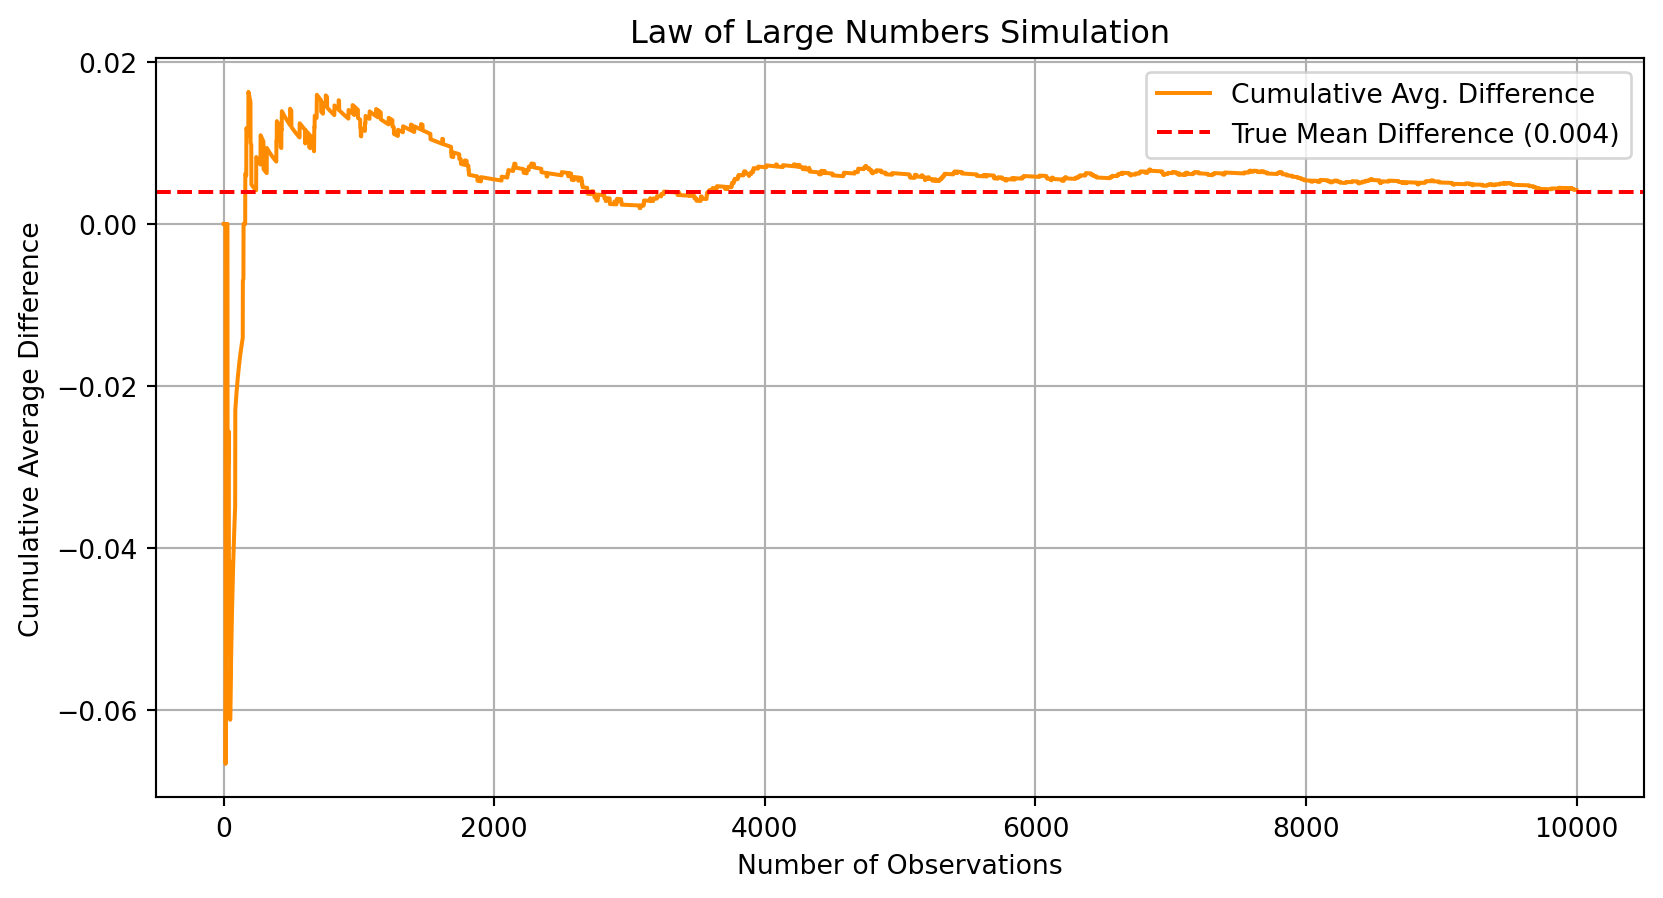
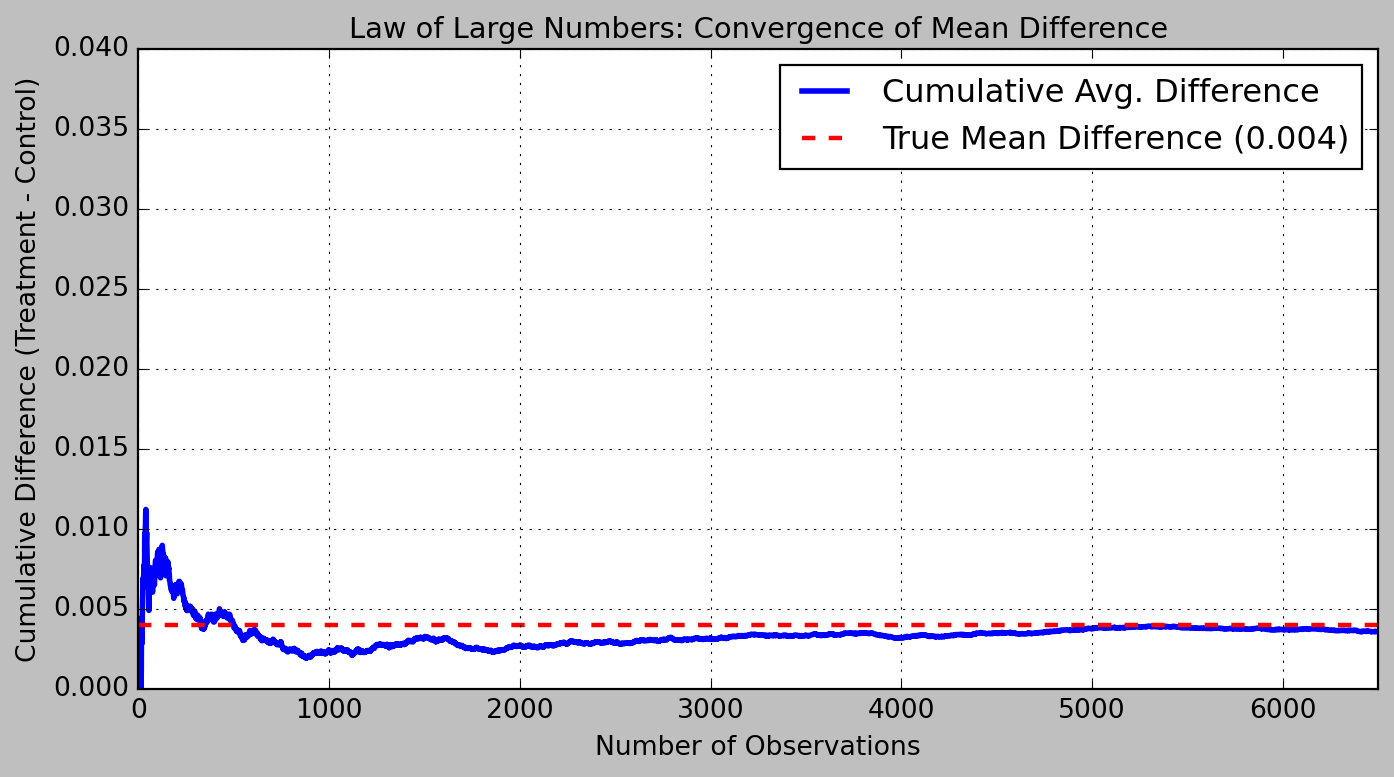
999999

diff --git a/docs/blog/project1/hw1_questions (4).html b/docs/blog/project1/hw1_questions (4).html
@@ -190,6 +190,9 @@ window.Quarto = {
   <li><a href="#data" id="toc-data" class="nav-link" data-scroll-target="#data">Data</a>
   <ul class="collapse">
   <li><a href="#description" id="toc-description" class="nav-link" data-scroll-target="#description">Description</a></li>
+  </ul></li>
+  <li><a href="#description-1" id="toc-description-1" class="nav-link" data-scroll-target="#description-1">Description</a>
+  <ul class="collapse">
   <li><a href="#balance-test" id="toc-balance-test" class="nav-link" data-scroll-target="#balance-test">Balance Test</a></li>
   <li><a href="#manual-t-test-results" id="toc-manual-t-test-results" class="nav-link" data-scroll-target="#manual-t-test-results">Manual T-Test Results</a></li>
   <li><a href="#linear-regression-results" id="toc-linear-regression-results" class="nav-link" data-scroll-target="#linear-regression-results">Linear Regression Results</a></li>
@@ -218,6 +221,8 @@ window.Quarto = {
   <li><a href="#law-of-large-numbers" id="toc-law-of-large-numbers" class="nav-link" data-scroll-target="#law-of-large-numbers">Law of Large Numbers</a></li>
   <li><a href="#law-of-large-numbers-1" id="toc-law-of-large-numbers-1" class="nav-link" data-scroll-target="#law-of-large-numbers-1">Law of Large Numbers</a></li>
   <li><a href="#law-of-large-numbers-2" id="toc-law-of-large-numbers-2" class="nav-link" data-scroll-target="#law-of-large-numbers-2">Law of Large Numbers</a></li>
+  <li><a href="#law-of-large-numbers-3" id="toc-law-of-large-numbers-3" class="nav-link" data-scroll-target="#law-of-large-numbers-3">Law of Large Numbers</a></li>
+  <li><a href="#law-of-large-numbers-convergence-of-mean-difference" id="toc-law-of-large-numbers-convergence-of-mean-difference" class="nav-link" data-scroll-target="#law-of-large-numbers-convergence-of-mean-difference">Law of Large Numbers: Convergence of Mean Difference</a></li>
   <li><a href="#interpretation-3" id="toc-interpretation-3" class="nav-link" data-scroll-target="#interpretation-3">Interpretation</a></li>
   <li><a href="#central-limit-theorem" id="toc-central-limit-theorem" class="nav-link" data-scroll-target="#central-limit-theorem">Central Limit Theorem</a></li>
   <li><a href="#interpretation-4" id="toc-interpretation-4" class="nav-link" data-scroll-target="#interpretation-4">Interpretation</a></li>
@@ -272,6 +277,16 @@ window.Quarto = {
 <section id="description" class="level3">
 <h3 class="anchored" data-anchor-id="description">Description</h3>
 <p>We load and explore the dataset from Karlan and List (2007).</p>
+</section>
+</section>
+<section id="description-1" class="level2">
+<h2 class="anchored" data-anchor-id="description-1">Description</h2>
+<p>The dataset includes 50,083 observations, each representing a past donor who received a fundraising letter as part of a large-scale randomized field experiment. The dataset captures a wide range of information, including treatment assignments, donation outcomes, prior giving behavior, and demographic context.</p>
+<p>There are 51 variables in total, which can be broadly grouped into the following categories: - <strong>Treatment indicators</strong>: such as <code>treatment</code>, <code>ratio2</code>, <code>ratio3</code>, <code>size25</code>, <code>size50</code>, <code>size100</code>, and <code>askd1</code>, which reflect match ratios, thresholds, and suggested donation amounts. - <strong>Outcome variables</strong>: including <code>gave</code> (binary indicator for donation) and <code>amount</code> (dollar amount donated). - <strong>Historical giving behavior</strong>: such as <code>hpa</code> (highest previous amount), <code>ltmedmra</code> (indicator for low prior donors), and <code>years</code> since the first donation. - <strong>Demographic and contextual features</strong>: such as <code>female</code>, <code>couple</code>, <code>median_hhincome</code>, <code>page18_39</code>, <code>pwhite</code>, and <code>pop_propurban</code>.</p>
+<p>Most variables are either complete or have minimal missingness, and the data types are a mix of binary indicators, integers, floats, and categorical values. This structure makes the dataset well-suited for regression, simulation, and visualization tasks.</p>
+<p>Summary statistics show that approximately <strong>66.7% of observations are in the treatment group</strong>, with <strong>33.3% in the control group</strong>, as expected from random assignment. The <code>gave</code> variable indicates that about <strong>2.06% of individuals donated</strong>, and the average donation (<code>amount</code>) across the full sample is <strong>$0.92</strong>, with some contributions reaching as high as <strong>$400</strong>. This reflects the typical skew in donation behavior: most individuals gave nothing, while a few gave large amounts.</p>
+<p>The match ratio flags (<code>ratio2</code>, <code>ratio3</code>) suggest roughly <strong>equal allocation</strong> across the 1:1, 2:1, and 3:1 groups. Likewise, the match threshold indicators (<code>size25</code>, <code>size50</code>, <code>size100</code>, <code>sizeno</code>) are each present in about <strong>16.7%</strong> of the sample. Suggested donation framing variables (<code>askd1</code>, <code>askd2</code>, <code>askd3</code>) also appear to be evenly distributed, reinforcing that the experimental design was properly randomized.</p>
+<p>The table below provides descriptions for key variables in the dataset.</p>
 <p>#:::: {.callout-note collapse=“true”}</p>
 <table class="caption-top table">
 <colgroup>
@@ -491,7 +506,7 @@ window.Quarto = {
 </tr>
 </tbody>
 </table>
-<div id="d708e9bc" class="cell" data-message="false" data-execution_count="2">
+<div id="bbea4afd" class="cell" data-message="false" data-execution_count="2">
 <div class="cell-output cell-output-display" data-execution_count="2">
 <div>
 
@@ -1045,7 +1060,7 @@ window.Quarto = {
 </div>
 </div>
 </div>
-<div id="d7a5498b" class="cell" data-message="false" data-execution_count="3">
+<div id="8a994459" class="cell" data-message="false" data-execution_count="3">
 <div class="cell-output cell-output-display" data-execution_count="3">
 <div>
 
@@ -1278,7 +1293,6 @@ window.Quarto = {
 </div>
 </div>
 <p>::::</p>
-</section>
 <section id="balance-test" class="level3">
 <h3 class="anchored" data-anchor-id="balance-test">Balance Test</h3>
 <p>As an ad hoc test of the randomization mechanism, I provide a series of tests that compare aspects of the treatment and control groups to assess whether they are statistically significantly different from one another.</p>
@@ -1337,7 +1351,7 @@ t = \frac{\bar{X}_{\text{treatment}} - \bar{X}_{\text{control}}}{\sqrt{\frac{s^2
 <section id="charitable-contribution-made-1" class="level3">
 <h3 class="anchored" data-anchor-id="charitable-contribution-made-1">Charitable Contribution Made</h3>
 <p>We examine whether the treatment group had a higher donation rate compared to the control group.</p>
-<div id="4e07fb9f" class="cell" data-message="false" data-execution_count="4">
+<div id="461ea9a4" class="cell" data-message="false" data-execution_count="4">
 <div class="cell-output cell-output-display">
 <div>
 <figure class="figure">
@@ -1351,7 +1365,7 @@ t = \frac{\bar{X}_{\text{treatment}} - \bar{X}_{\text{control}}}{\sqrt{\frac{s^2
 <section id="t-test-for-donation-rates" class="level4">
 <h4 class="anchored" data-anchor-id="t-test-for-donation-rates">T-Test for Donation Rates</h4>
 <p>This code performs an independent samples t-test to determine whether the mean donation rate (<code>gave</code>) differs significantly between the treatment and control groups. Since <code>gave</code> is a binary outcome indicating whether a donation was made, the test compares the proportion of donors across the two groups to assess the effect of receiving a matching donation offer.</p>
-<div id="6a543e8e" class="cell" data-execution_count="5">
+<div id="68eb99a3" class="cell" data-execution_count="5">
 <div class="sourceCode cell-code" id="cb1"><pre class="sourceCode python code-with-copy"><code class="sourceCode python"><span id="cb1-1"><a href="#cb1-1" aria-hidden="true" tabindex="-1"></a><span class="co"># T-test on binary outcome (gave)</span></span>
 <span id="cb1-2"><a href="#cb1-2" aria-hidden="true" tabindex="-1"></a>treat <span class="op">=</span> data[data[<span class="st">'treatment'</span>] <span class="op">==</span> <span class="dv">1</span>][<span class="st">'gave'</span>]</span>
 <span id="cb1-3"><a href="#cb1-3" aria-hidden="true" tabindex="-1"></a>control <span class="op">=</span> data[data[<span class="st">'treatment'</span>] <span class="op">==</span> <span class="dv">0</span>][<span class="st">'gave'</span>]</span>
@@ -1366,7 +1380,7 @@ T-statistic: 3.209, p-value: 0.001</code></pre>
 <p>The result of the t-test yields a t-statistic of 3.209 with a p-value of 0.001. This indicates a statistically significant difference in donation rates between the treatment and control groups at the 1% significance level. In other words, individuals who received a matching donation offer were significantly more likely to donate than those who did not, supporting the hypothesis that such offers increase giving behavior.</p>
 <p>To complement the t-test, we estimate a simple ordinary least squares (OLS) regression to evaluate the effect of the treatment assignment on the probability of giving. The binary outcome variable <code>gave</code> is regressed on the treatment indicator, which equals 1 for those who received a matching donation offer and 0 for the control group.</p>
 <p>This model can be interpreted as a comparison of group means, where the intercept represents the donation rate in the control group, and the treatment coefficient captures the average difference in donation rates between groups.</p>
-<div id="4c1625c9" class="cell" data-execution_count="6">
+<div id="a400bb45" class="cell" data-execution_count="6">
 <div class="sourceCode cell-code" id="cb3"><pre class="sourceCode python code-with-copy"><code class="sourceCode python"><span id="cb3-1"><a href="#cb3-1" aria-hidden="true" tabindex="-1"></a><span class="co"># Bivariate OLS regression: gave ~ treatment</span></span>
 <span id="cb3-2"><a href="#cb3-2" aria-hidden="true" tabindex="-1"></a>model <span class="op">=</span> smf.ols(<span class="st">"gave ~ treatment"</span>, data<span class="op">=</span>data).fit()</span>
 <span id="cb3-3"><a href="#cb3-3" aria-hidden="true" tabindex="-1"></a>model.summary()</span></code><button title="Copy to Clipboard" class="code-copy-button"><i class="bi"></i></button></pre></div>
@@ -1400,7 +1414,7 @@ T-statistic: 3.209, p-value: 0.001</code></pre>
 </tr>
 <tr class="odd">
 <td data-quarto-table-cell-role="th">Time:</td>
-<td>23:47:58</td>
+<td>23:50:37</td>
 <td data-quarto-table-cell-role="th">Log-Likelihood:</td>
 <td>26630.</td>
 </tr>
@@ -1498,7 +1512,7 @@ T-statistic: 3.209, p-value: 0.001</code></pre>
 </div>
 <p>The results confirm what we observed in the t-test. The coefficient on the <code>treatment</code> variable is <strong>0.0042</strong>, with a <strong>p-value of 0.002</strong>, indicating that the difference in donation rates between treatment and control is statistically significant at the 1% level.</p>
 <p>This suggests that receiving a matching donation offer increased the likelihood of giving by approximately <strong>0.42 percentage points</strong>. While this effect may seem small in absolute terms, it is consistent with the behavioral insights from Karlan and List (2007): even modest framing changes like mentioning a match can lead to meaningful increases in donor participation.</p>
-<div id="627b2f81" class="cell" data-execution_count="7">
+<div id="f9b8e9fb" class="cell" data-execution_count="7">
 <div class="sourceCode cell-code" id="cb4"><pre class="sourceCode python code-with-copy"><code class="sourceCode python"><span id="cb4-1"><a href="#cb4-1" aria-hidden="true" tabindex="-1"></a><span class="co"># Probit regression: gave ~ treatment</span></span>
 <span id="cb4-2"><a href="#cb4-2" aria-hidden="true" tabindex="-1"></a>probit_model <span class="op">=</span> smf.probit(<span class="st">"gave ~ treatment"</span>, data<span class="op">=</span>data).fit()</span>
 <span id="cb4-3"><a href="#cb4-3" aria-hidden="true" tabindex="-1"></a>probit_model.summary()</span></code><button title="Copy to Clipboard" class="code-copy-button"><i class="bi"></i></button></pre></div>
@@ -1537,7 +1551,7 @@ T-statistic: 3.209, p-value: 0.001</code></pre>
 </tr>
 <tr class="odd">
 <td data-quarto-table-cell-role="th">Time:</td>
-<td>23:47:58</td>
+<td>23:50:37</td>
 <td data-quarto-table-cell-role="th">Log-Likelihood:</td>
 <td>-5030.5</td>
 </tr>
@@ -1614,7 +1628,7 @@ T-statistic: 3.209, p-value: 0.001</code></pre>
 </section>
 <section id="t-tests-for-match-ratios" class="level3">
 <h3 class="anchored" data-anchor-id="t-tests-for-match-ratios">T-tests for Match Ratios</h3>
-<div id="d19b944c" class="cell" data-execution_count="8">
+<div id="0c4603fc" class="cell" data-execution_count="8">
 <div class="sourceCode cell-code" id="cb6"><pre class="sourceCode python code-with-copy"><code class="sourceCode python"><span id="cb6-1"><a href="#cb6-1" aria-hidden="true" tabindex="-1"></a><span class="co"># Filter only treatment group and each match ratio</span></span>
 <span id="cb6-2"><a href="#cb6-2" aria-hidden="true" tabindex="-1"></a>ratio1 <span class="op">=</span> data[(data[<span class="st">'treatment'</span>] <span class="op">==</span> <span class="dv">1</span>) <span class="op">&amp;</span> (data[<span class="st">'ratio'</span>] <span class="op">==</span> <span class="dv">1</span>)][<span class="st">'gave'</span>]</span>
 <span id="cb6-3"><a href="#cb6-3" aria-hidden="true" tabindex="-1"></a>ratio2 <span class="op">=</span> data[(data[<span class="st">'treatment'</span>] <span class="op">==</span> <span class="dv">1</span>) <span class="op">&amp;</span> (data[<span class="st">'ratio'</span>] <span class="op">==</span> <span class="dv">2</span>)][<span class="st">'gave'</span>]</span>
@@ -1645,7 +1659,7 @@ These t-tests compare donation rates for each match ratio within the treatment g
 </section>
 <section id="regression-on-match-ratio-categorical" class="level3">
 <h3 class="anchored" data-anchor-id="regression-on-match-ratio-categorical">Regression on Match Ratio (Categorical)</h3>
-<div id="26a9b3cf" class="cell" data-execution_count="9">
+<div id="f4e0f816" class="cell" data-execution_count="9">
 <div class="sourceCode cell-code" id="cb8"><pre class="sourceCode python code-with-copy"><code class="sourceCode python"><span id="cb8-1"><a href="#cb8-1" aria-hidden="true" tabindex="-1"></a><span class="co"># Filter for treatment group and valid match ratios</span></span>
 <span id="cb8-2"><a href="#cb8-2" aria-hidden="true" tabindex="-1"></a>match_data <span class="op">=</span> data[(data[<span class="st">'treatment'</span>] <span class="op">==</span> <span class="dv">1</span>) <span class="op">&amp;</span> (data[<span class="st">'ratio'</span>].isin([<span class="dv">1</span>, <span class="dv">2</span>, <span class="dv">3</span>]))].copy()</span>
 <span id="cb8-3"><a href="#cb8-3" aria-hidden="true" tabindex="-1"></a></span>
@@ -1685,7 +1699,7 @@ These t-tests compare donation rates for each match ratio within the treatment g
 </tr>
 <tr class="odd">
 <td data-quarto-table-cell-role="th">Time:</td>
-<td>23:47:58</td>
+<td>23:50:37</td>
 <td data-quarto-table-cell-role="th">Log-Likelihood:</td>
 <td>16688.</td>
 </tr>
@@ -1801,7 +1815,7 @@ The regression estimates donation rates for each match ratio using the 1:1 match
 <hr>
 <section id="response-rate-differences-from-raw-data-and-model" class="level4">
 <h4 class="anchored" data-anchor-id="response-rate-differences-from-raw-data-and-model">Response Rate Differences from Raw Data and Model</h4>
-<div id="05709702" class="cell" data-execution_count="10">
+<div id="9219de5a" class="cell" data-execution_count="10">
 <div class="sourceCode cell-code" id="cb9"><pre class="sourceCode python code-with-copy"><code class="sourceCode python"><span id="cb9-1"><a href="#cb9-1" aria-hidden="true" tabindex="-1"></a><span class="co"># Group-level mean donation rates</span></span>
 <span id="cb9-2"><a href="#cb9-2" aria-hidden="true" tabindex="-1"></a>ratio1 <span class="op">=</span> data[(data[<span class="st">'treatment'</span>] <span class="op">==</span> <span class="dv">1</span>) <span class="op">&amp;</span> (data[<span class="st">'ratio'</span>] <span class="op">==</span> <span class="dv">1</span>)][<span class="st">'gave'</span>]</span>
 <span id="cb9-3"><a href="#cb9-3" aria-hidden="true" tabindex="-1"></a>ratio2 <span class="op">=</span> data[(data[<span class="st">'treatment'</span>] <span class="op">==</span> <span class="dv">1</span>) <span class="op">&amp;</span> (data[<span class="st">'ratio'</span>] <span class="op">==</span> <span class="dv">2</span>)][<span class="st">'gave'</span>]</span>
@@ -1826,7 +1840,7 @@ Response Rate 3:1 = 0.0227
 3:1 - 2:1 = 0.0001</code></pre>
 </div>
 </div>
-<div id="a072e7ea" class="cell" data-execution_count="11">
+<div id="359ee5a6" class="cell" data-execution_count="11">
 <div class="sourceCode cell-code" id="cb11"><pre class="sourceCode python code-with-copy"><code class="sourceCode python"><span id="cb11-1"><a href="#cb11-1" aria-hidden="true" tabindex="-1"></a><span class="co"># Model-based differences from regression coefficients</span></span>
 <span id="cb11-2"><a href="#cb11-2" aria-hidden="true" tabindex="-1"></a>coef <span class="op">=</span> model.params</span>
 <span id="cb11-3"><a href="#cb11-3" aria-hidden="true" tabindex="-1"></a></span>
@@ -1876,7 +1890,7 @@ Conclusion
 <section id="full-sample-regression" class="level3">
 <h3 class="anchored" data-anchor-id="full-sample-regression">Full Sample Regression</h3>
 <p>The first model regresses the donation amount (<code>amount</code>) on the treatment assignment across the entire sample, including non-donors (who are coded as 0 for amount). This allows us to assess the <strong>average treatment effect</strong> on giving across all individuals.</p>
-<div id="9b3b56a4" class="cell" data-execution_count="12">
+<div id="3de6f170" class="cell" data-execution_count="12">
 <div class="cell-output cell-output-display" data-execution_count="12">
 <table class="simpletable caption-top table table-sm table-striped small" data-quarto-postprocess="true">
 <caption>OLS Regression Results</caption>
@@ -1907,7 +1921,7 @@ Conclusion
 </tr>
 <tr class="odd">
 <td data-quarto-table-cell-role="th">Time:</td>
-<td>23:47:58</td>
+<td>23:50:37</td>
 <td data-quarto-table-cell-role="th">Log-Likelihood:</td>
 <td>-1.7946e+05</td>
 </tr>
@@ -2010,7 +2024,7 @@ Conclusion
 <section id="regression-among-donors-only" class="level3">
 <h3 class="anchored" data-anchor-id="regression-among-donors-only">Regression Among Donors Only</h3>
 <p>Next, I restrict the sample to individuals who actually made a donation (<code>gave == 1</code>) to test whether the matching offer affected <strong>how much donors gave</strong>, conditional on donating.</p>
-<div id="df36872a" class="cell" data-execution_count="13">
+<div id="5ac8a270" class="cell" data-execution_count="13">
 <div class="cell-output cell-output-display" data-execution_count="13">
 <table class="simpletable caption-top table table-sm table-striped small" data-quarto-postprocess="true">
 <caption>OLS Regression Results</caption>
@@ -2041,7 +2055,7 @@ Conclusion
 </tr>
 <tr class="odd">
 <td data-quarto-table-cell-role="th">Time:</td>
-<td>23:47:59</td>
+<td>23:50:37</td>
 <td data-quarto-table-cell-role="th">Log-Likelihood:</td>
 <td>-5326.8</td>
 </tr>
@@ -2147,7 +2161,7 @@ Conclusion
 <p>Overall, this analysis supports the main takeaway from Karlan and List (2007): <strong>matching offers increase participation (extensive margin), but not the size of contributions (intensive margin)</strong>.</p>
 <section id="histogram-of-donation-amounts-treatment-group" class="level4">
 <h4 class="anchored" data-anchor-id="histogram-of-donation-amounts-treatment-group">Histogram of Donation Amounts: Treatment Group</h4>
-<div id="91ae1676" class="cell" data-execution_count="14">
+<div id="73b7b909" class="cell" data-execution_count="14">
 <div class="cell-output cell-output-display">
 <div>
 <figure class="figure">
@@ -2159,7 +2173,7 @@ Conclusion
 </section>
 <section id="histogram-of-donation-amounts-control-group" class="level4">
 <h4 class="anchored" data-anchor-id="histogram-of-donation-amounts-control-group">Histogram of Donation Amounts: Control Group</h4>
-<div id="ccdc6cf0" class="cell" data-message="false" data-execution_count="15">
+<div id="b31e2c8a" class="cell" data-message="false" data-execution_count="15">
 <div class="cell-output cell-output-display">
 <div>
 <figure class="figure">
@@ -2199,11 +2213,18 @@ Conclusion
 <section id="law-of-large-numbers-2" class="level3">
 <h3 class="anchored" data-anchor-id="law-of-large-numbers-2">Law of Large Numbers</h3>
 <p>To illustrate the Law of Large Numbers, I simulate two groups: one representing respondents who did not receive a matching donation offer (control, with donation probability ( p = 0.018 )), and one representing those who did (treatment, with ( p = 0.022 )). I draw 10,000 samples from each group and compute the difference for each pair. Then, I calculate and plot the <strong>cumulative average</strong> of these differences.</p>
-<div id="17397fbf" class="cell" data-message="false" data-execution_count="16">
+</section>
+<section id="law-of-large-numbers-3" class="level3">
+<h3 class="anchored" data-anchor-id="law-of-large-numbers-3">Law of Large Numbers</h3>
+<p>To simulate the Law of Large Numbers, I compare paired random samples from two Bernoulli distributions: one for the control group (( p = 0.018 )) and one for the treatment group (( p = 0.022 )). I compute the difference in outcomes for each pair and plot the cumulative average to see whether it converges to the true mean difference of 0.004.</p>
+</section>
+<section id="law-of-large-numbers-convergence-of-mean-difference" class="level3">
+<h3 class="anchored" data-anchor-id="law-of-large-numbers-convergence-of-mean-difference">Law of Large Numbers: Convergence of Mean Difference</h3>
+<div id="cb5854a7" class="cell" data-message="false" data-execution_count="16">
 <div class="cell-output cell-output-display">
 <div>
 <figure class="figure">
-<p><img src="hw1_questions (4)_files/figure-html/cell-17-output-1.png" width="832" height="449" class="figure-img"></p>
+<p><img src="hw1_questions (4)_files/figure-html/cell-17-output-1.png" width="697" height="388" class="figure-img"></p>
 </figure>
 </div>
 </div>
@@ -2225,11 +2246,11 @@ Conclusion
 <section id="central-limit-theorem" class="level3">
 <h3 class="anchored" data-anchor-id="central-limit-theorem">Central Limit Theorem</h3>
 <p>We simulate distributions of average differences in donation rates between control (p = 0.018) and treatment (p = 0.022) groups, using increasing sample sizes (n = 50, 200, 500, 1000). For each sample size, we repeat the process 1000 times and visualize the distribution of sample differences.</p>
-<div id="2fed1c97" class="cell" data-message="false" data-execution_count="17">
+<div id="c2662044" class="cell" data-message="false" data-execution_count="17">
 <div class="cell-output cell-output-display">
 <div>
 <figure class="figure">
-<p><img src="hw1_questions (4)_files/figure-html/cell-18-output-1.png" width="1142" height="758" class="figure-img"></p>
+<p><img src="hw1_questions (4)_files/figure-html/cell-18-output-1.png" width="946" height="627" class="figure-img"></p>
 </figure>
 </div>
 </div>

diff --git a/docs/blog.html b/docs/blog.html
@@ -219,7 +219,7 @@ window.Quarto = {
 </div>
 </div></a>
 </div>
-<div class="g-col-1" data-index="1" data-listing-date-sort="1745305200000" data-listing-file-modified-sort="1745475888884" data-listing-date-modified-sort="NaN" data-listing-reading-time-sort="33" data-listing-word-count-sort="6481">
+<div class="g-col-1" data-index="1" data-listing-date-sort="1745305200000" data-listing-file-modified-sort="1745477417663" data-listing-date-modified-sort="NaN" data-listing-reading-time-sort="35" data-listing-word-count-sort="6876">
 <a href="./blog/project1/hw1_questions (4).html" class="quarto-grid-link">
 <div class="quarto-grid-item card h-100 card-left">
 <p class="card-img-top"><img src="blog/project1/hw1_questions (4)_files/figure-html/cell-5-output-1.png" style="height: 150px;"  class="thumbnail-image card-img"/></p>
